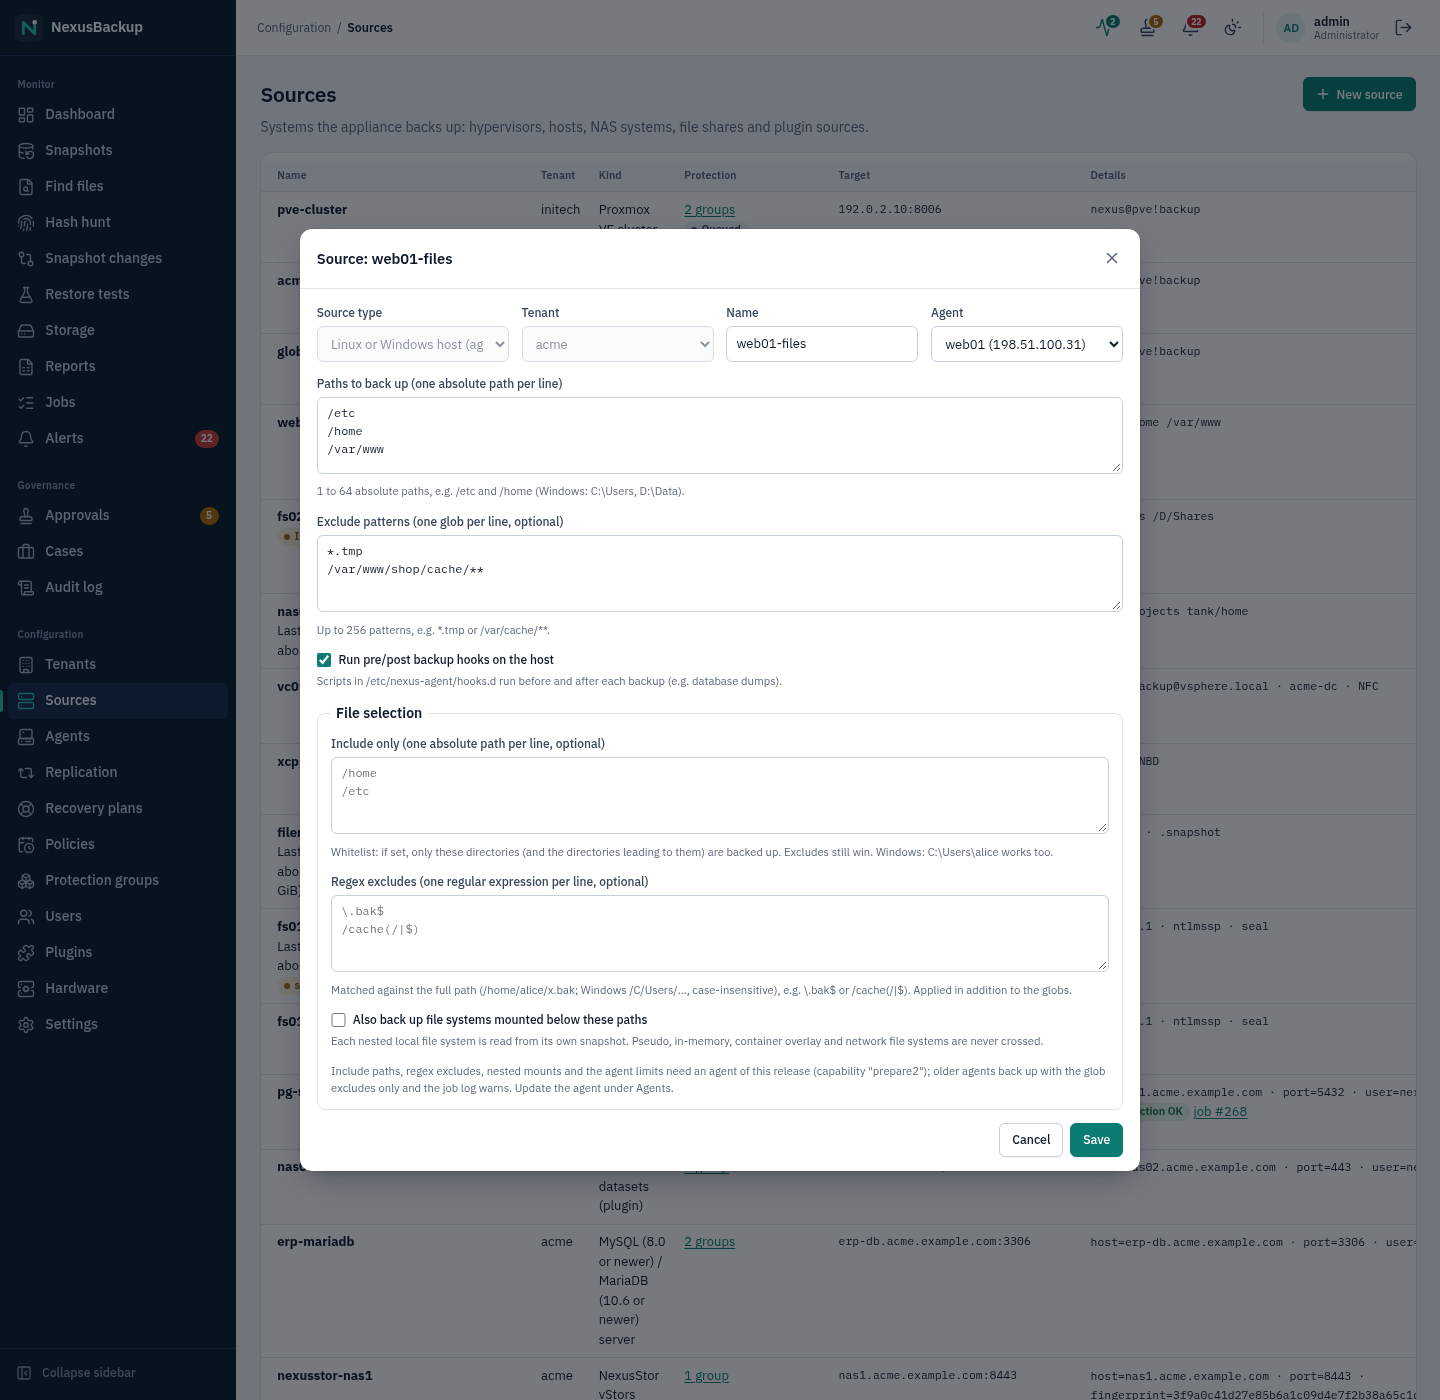
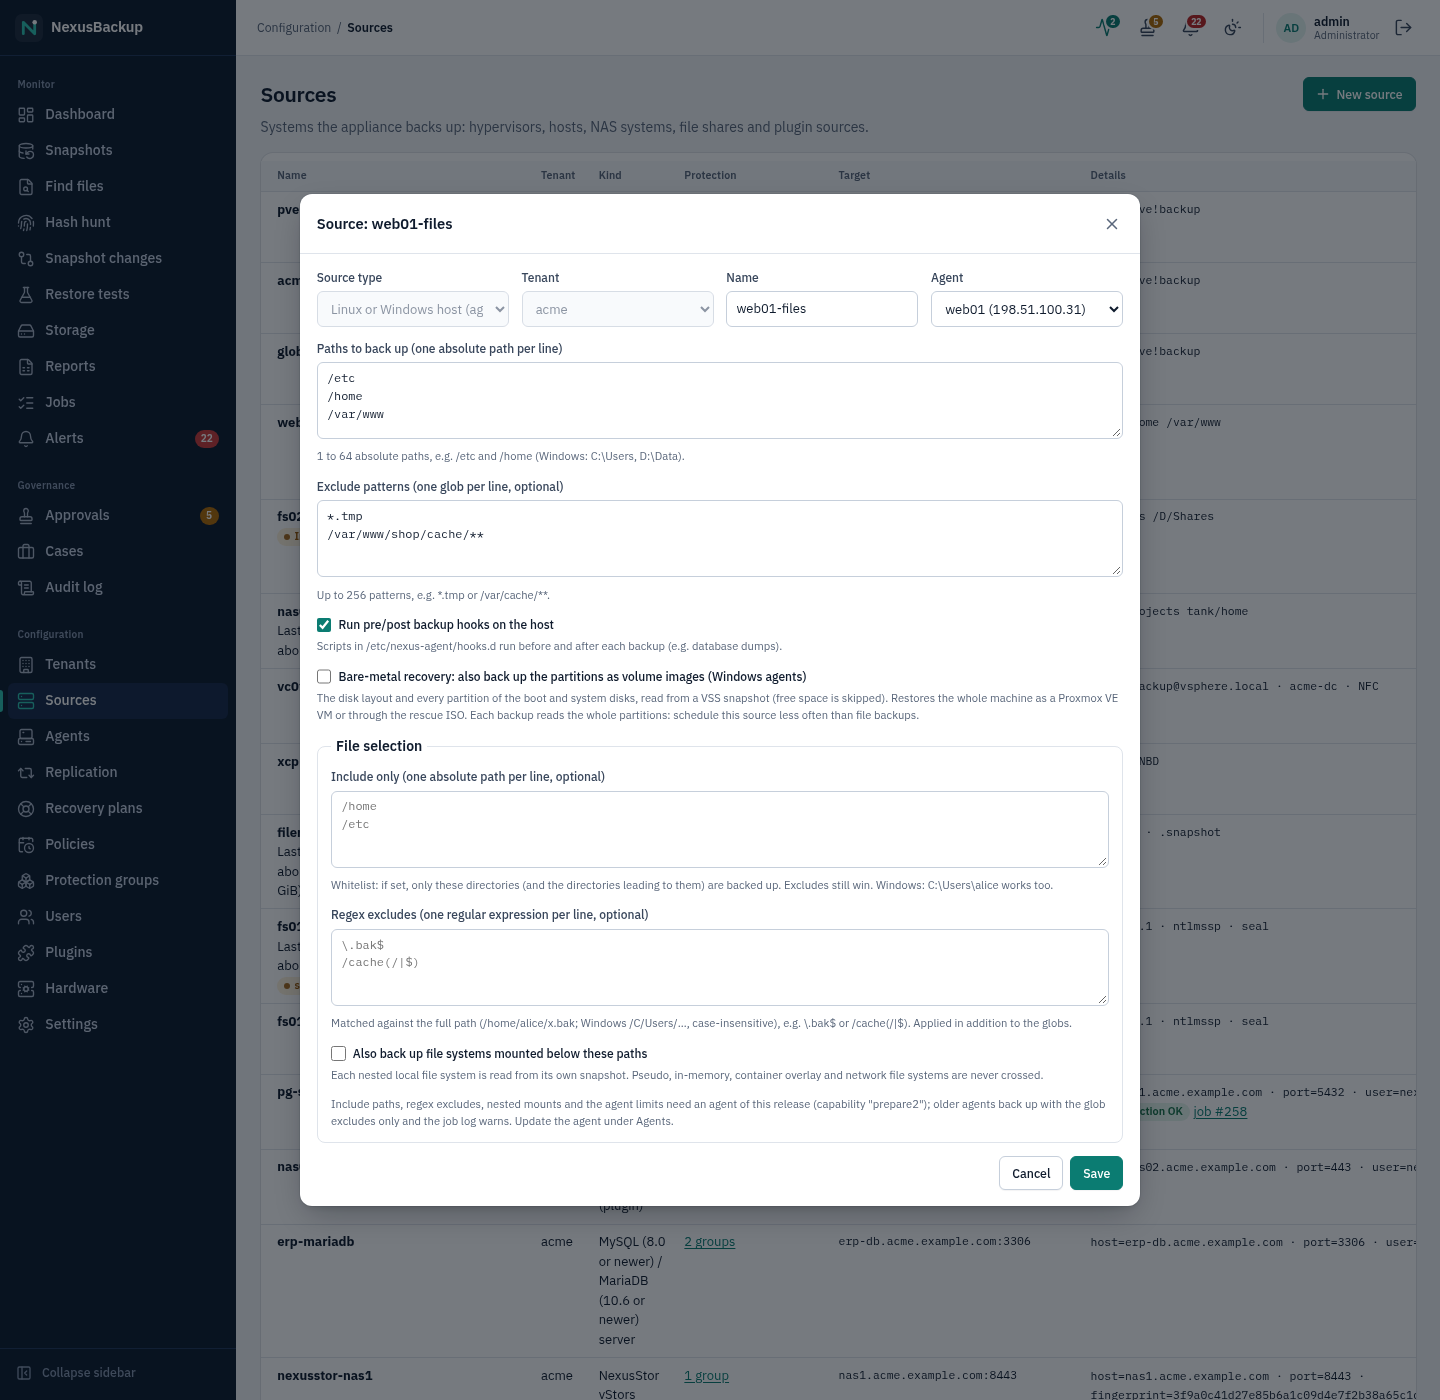
Agent sources: option to back up volume images (#19) (#177)
A Windows agent source can now carry `images: true`, so scheduled backups
store the partitions as volume images for bare-metal recovery without the
per-job API parameter. The scheduler takes the option from the source or the
job; the Sources page has a checkbox with a hint on the cost (whole
partitions each run), the mock accepts and returns the field, manual 17
describes the option and the screenshot shows it.

Changed region(s): [[0.1875, 0.1229, 0.8125, 0.86], [0.6562, 0.215, 0.75, 0.2764], [0.6875, 0.4914, 0.7188, 0.5221]]

diff --git a/web/src/pages/Sources.svelte b/web/src/pages/Sources.svelte
@@ -172,6 +172,7 @@
     paths: '',
     excludes: '',
     hooks: false,
+    images: false,
     // Phase 15e: agents + shares
     include: '',
     exclude_regex: '',
@@ -274,6 +275,7 @@
       paths: (l?.paths ?? []).join('\n'),
       excludes: (l?.excludes ?? sh?.excludes ?? []).join('\n'),
       hooks: l?.hooks ?? false,
+      images: l?.images ?? false,
       include: (l?.include ?? sh?.include ?? []).join('\n'),
       exclude_regex: (l?.exclude_regex ?? sh?.exclude_regex ?? []).join('\n'),
       cross_mounts: l?.cross_mounts ?? false,
@@ -516,7 +518,7 @@
     }
     const sel = selection(true);
     if (!sel) return null;
-    return { agent_id: f.agent_id, paths, excludes, hooks: f.hooks, ...sel };
+    return { agent_id: f.agent_id, paths, excludes, hooks: f.hooks, ...(f.images ? { images: true } : {}), ...sel };
   }
 
   /** Include roots, regex excludes (+ nested mounts for agents), or null (after telling the user). */
@@ -1283,6 +1285,12 @@
           ><input type="checkbox" bind:checked={f.hooks} aria-describedby="s-hooks-hint" />{t.sources.hooks}</label
         >
         <div class="hint" id="s-hooks-hint">{t.sources.hooksHint}</div>
+      </div>
+      <div class="field">
+        <label class="inline-check"
+          ><input type="checkbox" bind:checked={f.images} aria-describedby="s-img-hint" />{t.sources.images}</label
+        >
+        <div class="hint" id="s-img-hint">{t.sources.imagesHint}</div>
       </div>
       <fieldset class="field">
         <legend>{t.sources.selection}</legend>

diff --git a/web/mock/api.ts b/web/mock/api.ts
@@ -4694,9 +4694,17 @@ on('POST', '/sources/:id/split', async (c, [id]) => {
 function linuxConfig(tenant: string, cfg: Json): Json {
   for (const k of Object.keys(cfg ?? {}))
     if (
-      !['agent_id', 'paths', 'excludes', 'hooks', 'include', 'exclude_regex', 'cross_mounts', 'skip_fstypes'].includes(
-        k,
-      )
+      ![
+        'agent_id',
+        'paths',
+        'excludes',
+        'hooks',
+        'include',
+        'exclude_regex',
+        'cross_mounts',
+        'skip_fstypes',
+        'images',
+      ].includes(k)
     )
       throw new HttpError(400, `config: unknown field "${k}"`);
   find(db.agents, (a) => a.id === cfg.agent_id && a.tenant === tenant, 'agent in tenant');
@@ -4730,6 +4738,7 @@ function selection(cfg: Json, agent: boolean): Json {
     throw new HttpError(400, 'config.exclude_regex: non-empty patterns');
   if (rx.length) out.exclude_regex = rx;
   if (agent && cfg.cross_mounts) out.cross_mounts = true;
+  if (agent && cfg.images === true) out.images = true;
   const fst = cfg.skip_fstypes ?? [];
   if (agent && fst.length) {
     if (fst.some((x: unknown) => typeof x !== 'string' || !/^[A-Za-z0-9._-]{1,32}$/.test(x)))

diff --git a/web/src/lib/i18n.ts b/web/src/lib/i18n.ts
@@ -1119,6 +1119,9 @@ export const en = {
     excludesInvalid: 'Excludes: at most 256 patterns.',
     hooks: 'Run pre/post backup hooks on the host',
     hooksHint: 'Scripts in /etc/nexus-agent/hooks.d run before and after each backup (e.g. database dumps).',
+    images: 'Bare-metal recovery: also back up the partitions as volume images (Windows agents)',
+    imagesHint:
+      'The disk layout and every partition of the boot and system disks, read from a VSS snapshot (free space is skipped). Restores the whole machine as a Proxmox VE VM or through the rescue ISO. Each backup reads the whole partitions: schedule this source less often than file backups.',
     // Phase 15e: file selection (agents and shares)
     selection: 'File selection',
     include: 'Include only (one absolute path per line, optional)',

diff --git a/web/src/lib/types.ts b/web/src/lib/types.ts
@@ -240,6 +240,8 @@ export interface LinuxSourceConfig {
   exclude_regex?: string[];
   cross_mounts?: boolean;
   skip_fstypes?: string[];
+  /** #19: also the partitions as volume images (bare-metal recovery; Windows agents) */
+  images?: boolean;
 }
 
 /** Config of a `truenas` source (docs/truenas-connector.md). Secrets are write-only. */

diff --git a/crates/scheduler/src/lib.rs b/crates/scheduler/src/lib.rs
@@ -3056,9 +3056,9 @@ impl Scheduler {
             let mut backup = json!({"paths": src["paths"], "excludes": excludes,
                                 "hooks": src["hooks"].as_bool().unwrap_or(false),
                                 "filters": filters, "limits": selection::agent_limits(&a.limits)});
-            // #19: volume images for bare-metal recovery (agents with CAP_VOLUME_IMAGE: Windows); a job parameter
-            // for now. ponytail: a source / group option once the full read per run is acceptable (no CBT yet)
-            if job.params["images"] == true {
+            // #19: volume images for bare-metal recovery (agents with CAP_VOLUME_IMAGE: Windows): the source's
+            // option, or a job parameter for one run
+            if job.params["images"] == true || src["images"] == true {
                 backup["images"] = json!(true);
             }
             let (f, step) = self.agentctl(&plan.dir, job, &a, "backup", json!({"backup": backup}))?;

diff --git a/crates/web-api/src/resources.rs b/crates/web-api/src/resources.rs
@@ -716,6 +716,10 @@ pub struct LinuxConfig {
     cross_mounts: bool,
     #[serde(default, skip_serializing_if = "Vec::is_empty")]
     skip_fstypes: Vec<String>,
+    /// #19: every backup also stores the partitions as volume images (bare-metal recovery; agents with
+    /// CAP_VOLUME_IMAGE: Windows). Reads the whole partitions each time (no change tracking yet).
+    #[serde(default, skip_serializing_if = "std::ops::Not::not")]
+    images: bool,
 }
 
 impl LinuxConfig {

diff --git a/manual/17-windows-agent.md b/manual/17-windows-agent.md
@@ -147,9 +147,8 @@ ACLs (and SACLs), owners, alternate data streams and timestamps.
 
 ## Bare-metal recovery (preview)
 
-A backup job with **volume images** (`images: true` in the job parameters, for now through the API: `POST /jobs`
-`{"kind": "backup", "params": {"agent_id": ..., "images": true}}`; agent 0.4 or newer) also stores every
-partition of the boot and system disks as an image: NTFS and ReFS volumes from a VSS snapshot, the EFI system
+With **Bare-metal recovery: also back up the partitions as volume images** on the agent's source (**Sources** →
+the agent source; or `images: true` on a single backup job; agent 0.4 or newer) a backup also stores every partition of the boot and system disks as an image: NTFS and ReFS volumes from a VSS snapshot, the EFI system
 partition and the MSR read raw, plus the disk layout with the MBR boot code. Such a snapshot restores the whole
 machine:
 
